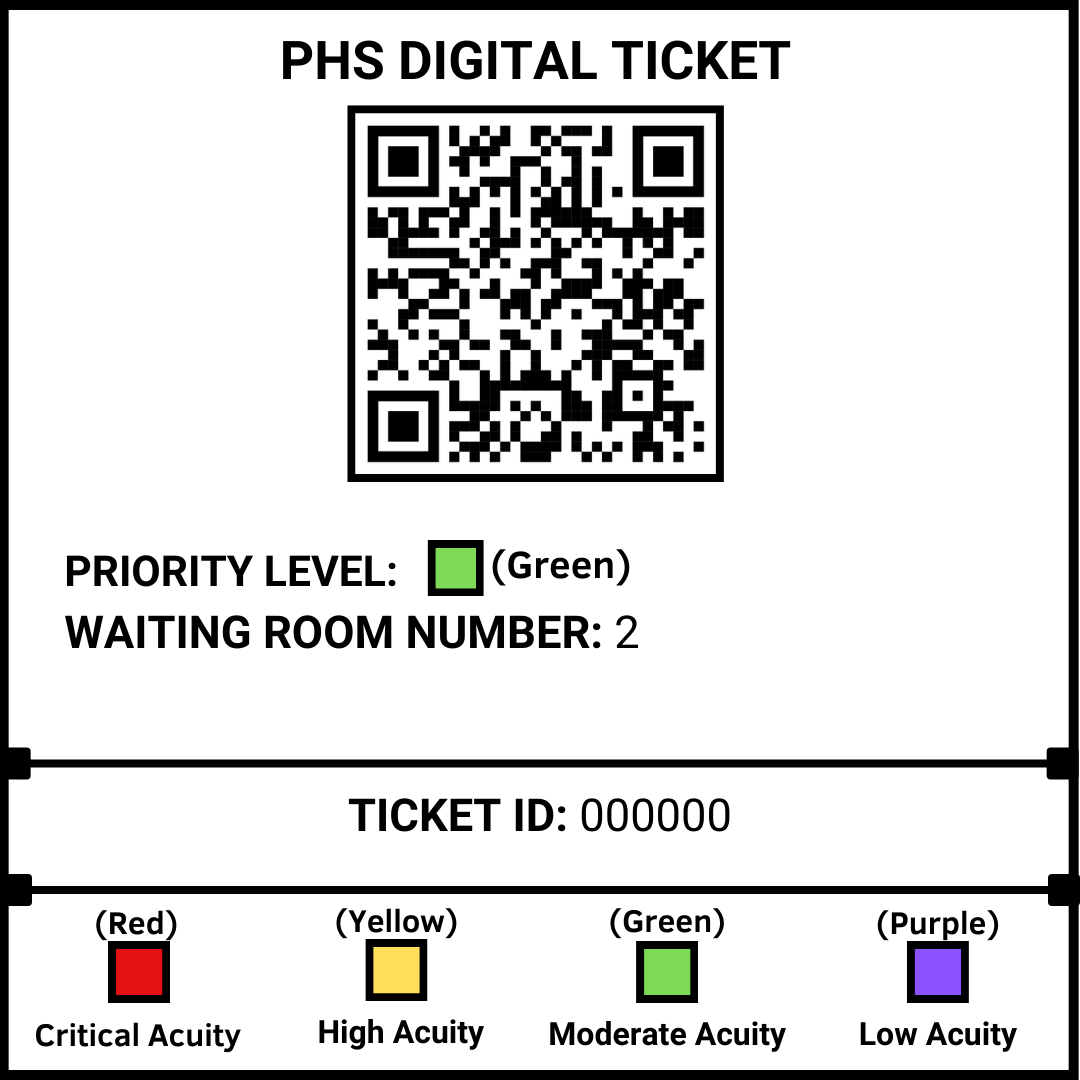
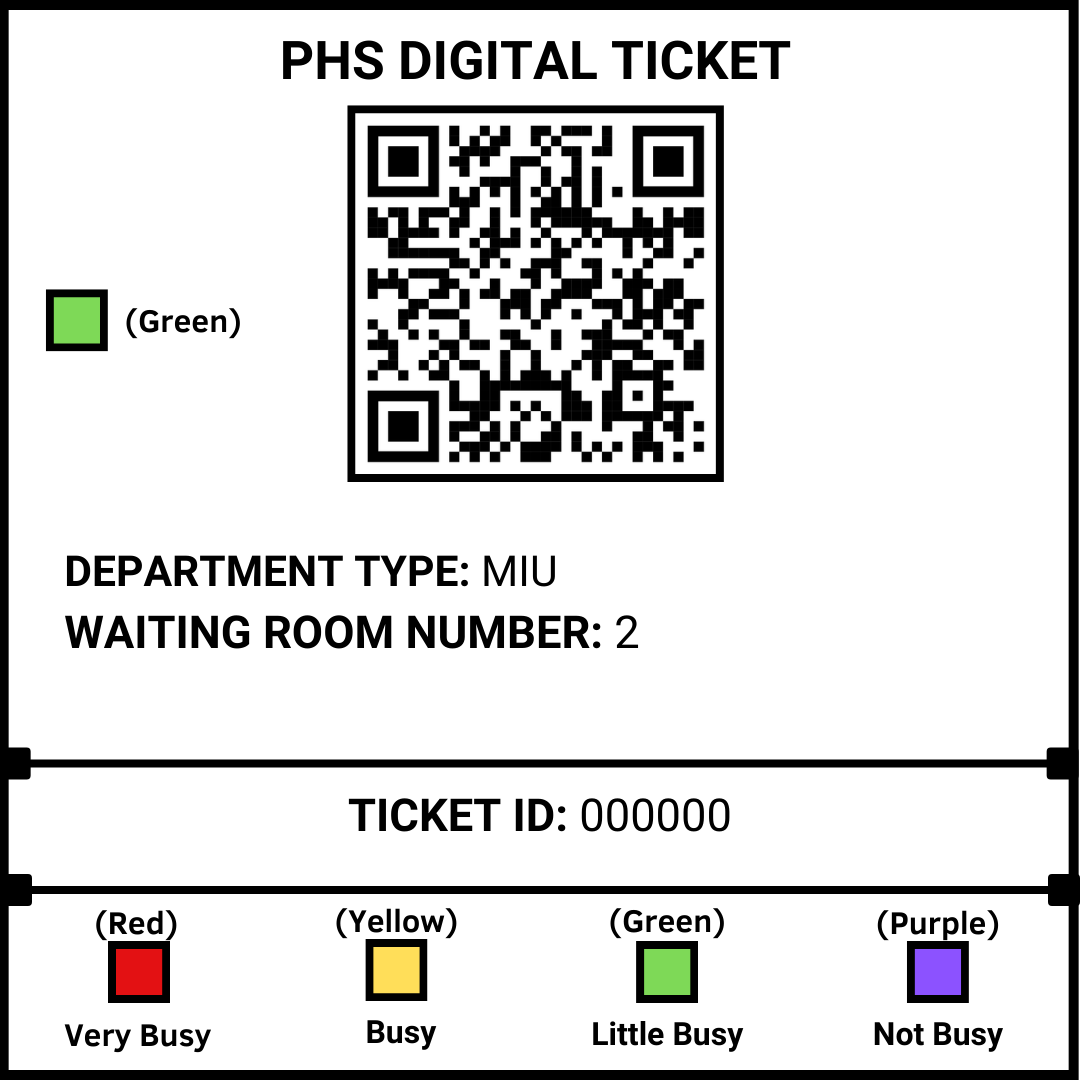
Updating the report

diff --git a/REPORT.md b/REPORT.md
@@ -203,12 +203,11 @@ at the site. Once scanned, the patient’s details—such as patient name, age, 
 loaded into the system, allowing staff to provide appropriate treatment promptly. The patient’s identity can be verified by asking them to present 
 a valid ID, which can then be matched with their name and date of birth.</b></p>
 
-<b><i>This system ensures a seamless and efficient patient registration process, minimizing delays and enabling faster access to care.</i></b>
+<b><i>This system ensures a seamless and efficient patient registration process, minimizing delays and enabling faster access to care.</i></b><br>
+<b>The colored box next to the QR code represents the current load at the site assigned to you, while the color blocks at the bottom correspond to the overall load levels for all sites.</b>
 <br>
 
-### Update ticket site type to department type and include the waiting room number
-
-![Sample Ticket with QR Code from web app](./dat_vis_assets/E_Ticket.png) 
+![Sample Ticket with QR Code from web app](./dat_vis_assets/webapp.png) 
 
 <br>
 
@@ -272,11 +271,10 @@ a valid ID, which can then be matched with their name and date of birth.</b></p>
 <p>This system complements the web app by providing similar functionality for walk-in patients, ensuring that pre-sorting and registration remain efficient regardless of how patients arrive at the site.</p>
 
 <b><p>This is a sample ticket generated by the kiosk for patients already on-site. The ticket includes a QR Code that can be scanned at the department. Once scanned, the patient’s details—such as patient name, age, medical history, allergies, and current symptoms—are automatically loaded into the system, allowing staff to provide appropriate treatment promptly. The patient’s identity can be verified by asking them to present a valid ID, which can then be matched with their name and date of birth.</b></p>
-<b><i>This system ensures a seamless and efficient patient registration process, reducing waiting times and allowing quicker access to care.</i></b>
+<b><i>This system ensures a seamless and efficient patient registration process, reducing waiting times and allowing quicker access to care.</i></b><br>
+<b>The colored box next to the QR code represents the current load at the site assigned to you, while the color blocks at the bottom correspond to the overall load levels for all sites.</b>
 
-### remove priority level and add department type, change to site load instead of priority coloring.
-
-![Sample Ticket with QR Code from Kiosk](./dat_vis_assets/kiosk.png) 
+![Sample Ticket with QR Code from Kiosk](./dat_vis_assets/Kiosk.png) 
 
 <h3>ID Tags/Keychains with QR Codes:</h3>
 <p>ID tags or keychains with QR codes, which can be scanned to access the patient's complete profile at the A&E Site, can be issued to elderly individuals and children for easy carrying in emergency situations. These tags can be ordered for anyone, and they will feature the patient's unique token number and a QR code linked to their profile on the PHS web app. The QR code can be scanned at on-site kiosks to quickly generate the patient's e-ticket. In emergency cases, ambulances can scan the QR code to instantly load the patient's data, ensuring that they are treated swiftly and accurately without delay.
